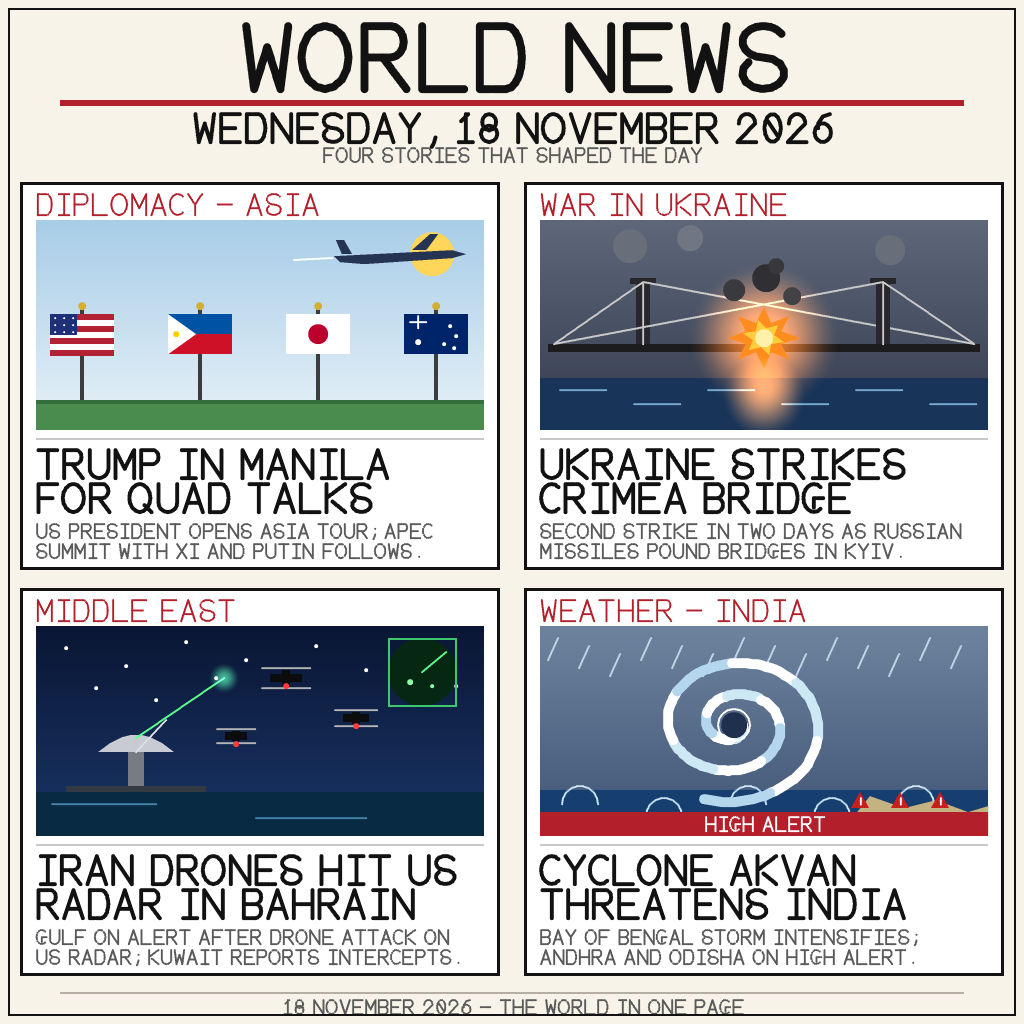
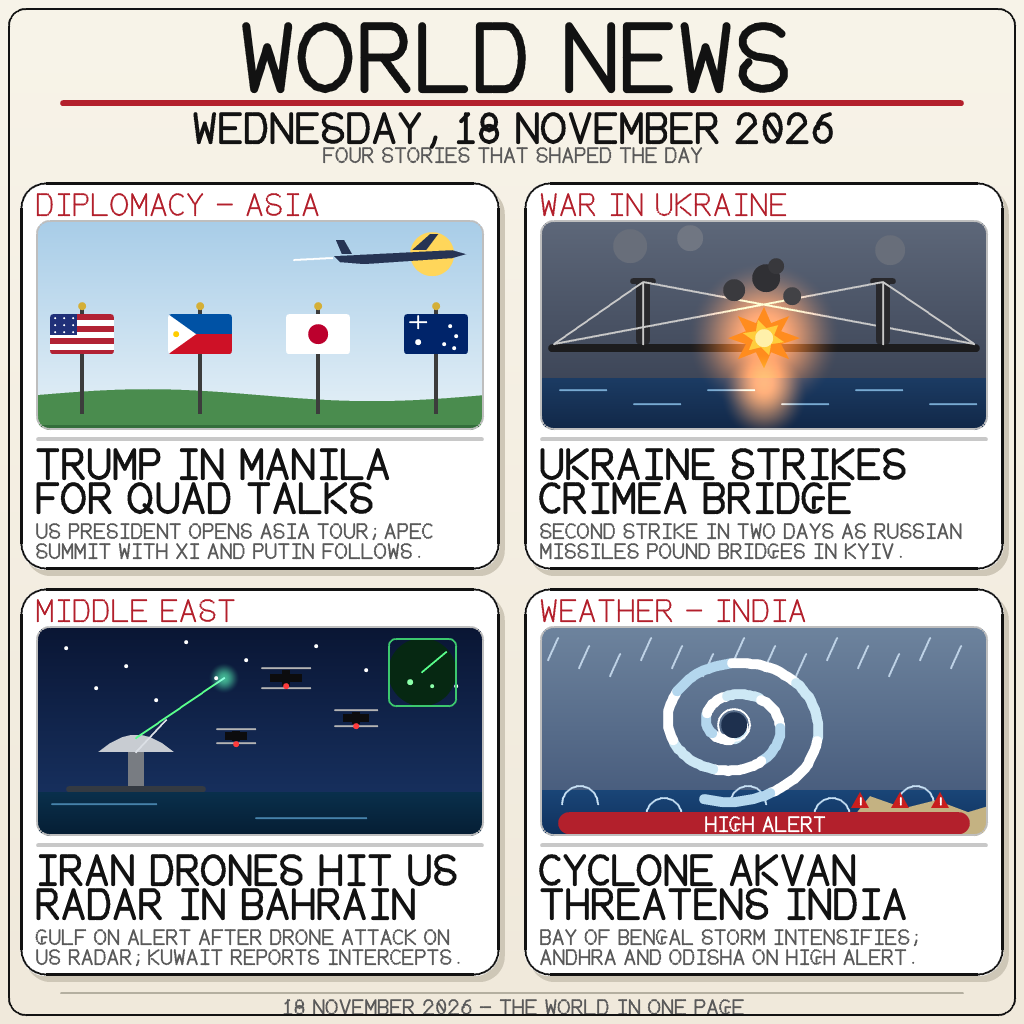
Rounded, soft look: large-radius panels, rounded illustration regions, gradients, soft shadows

diff --git a/main.py b/main.py
@@ -17,7 +17,9 @@ Deterministic: no clock, no network, no random. The same bytes are
 written on every run.
 Rendering is supersampled 3x (3072x3072) and box-downsampled to
 1024x1024, so text and shapes get smooth anti-aliased edges instead of
-the blocky pixel look. The harness is standard-library only, so no
+the blocky pixel look. Panels, frames and illustration regions are
+large-radius rounded rectangles with soft shadows and gradients --
+nothing flat and square. The harness is standard-library only, so no
 Pillow or external fonts are used.
 Run:  MAKEFUN_OUTPUT_DIR=out python3 -P -s main.py
 """
@@ -47,16 +49,77 @@ def _clamp(v):
     return 255 if v > 255 else (0 if v < 0 else v)
 
 
+# Optional rounded-rect clip (supersampled coords): when set, _blit_rect
+# and add_circle only paint inside it. Used for illustration regions and
+# flags so their corners come out rounded instead of square.
+CLIP = None
+
+
+def set_clip(x0, y0, x1, y1, r):
+    global CLIP
+    CLIP = (int(x0 * SS), int(y0 * SS), int(x1 * SS), int(y1 * SS), r * SS)
+
+
+def clear_clip():
+    global CLIP
+    CLIP = None
+
+
+def push_clip(x0, y0, x1, y1, r):
+    """Set a clip and return the previous one (for nested clips)."""
+    prev = CLIP
+    set_clip(x0, y0, x1, y1, r)
+    return prev
+
+
+def pop_clip(prev):
+    global CLIP
+    CLIP = prev
+
+
+def _clip_row(sy):
+    """Allowed supersampled x-interval for row sy under CLIP, or None
+    when no clip is set. Returns an empty interval for rows outside."""
+    if CLIP is None:
+        return None
+    X0, Y0, X1, Y1, R = CLIP
+    if sy < Y0 or sy >= Y1:
+        return (0, 0)
+    cx0, cx1 = X0 + R, X1 - R
+    cy0, cy1 = Y0 + R, Y1 - R
+    if sy < cy0:
+        dy = cy0 - sy
+        dx = int((max(R * R - dy * dy, 0)) ** 0.5)
+        return (cx0 - dx, cx1 + dx)
+    if sy > cy1:
+        dy = sy - cy1
+        dx = int((max(R * R - dy * dy, 0)) ** 0.5)
+        return (cx0 - dx, cx1 + dx)
+    return (X0, X1)
+
+
 def _blit_rect(x0, y0, x1, y1, c):
     """Fill a rect in supersampled coordinates (direct pixel writes)."""
     x0 = max(0, int(x0)); y0 = max(0, int(y0))
     x1 = min(SW, int(x1)); y1 = min(SH, int(y1))
     if x1 <= x0 or y1 <= y0:
         return
-    row = bytes(c) * (x1 - x0)
-    for y in range(y0, y1):
-        base = (y * SW + x0) * 3
-        pix[base:base + len(row)] = row
+    if CLIP is None:
+        row = bytes(c) * (x1 - x0)
+        for y in range(y0, y1):
+            base = (y * SW + x0) * 3
+            pix[base:base + len(row)] = row
+    else:
+        for y in range(y0, y1):
+            cr = _clip_row(y)
+            if cr is None:
+                continue
+            lo, hi = max(cr[0], x0), min(cr[1], x1)
+            if hi <= lo:
+                continue
+            row = bytes(c) * (hi - lo)
+            base = (y * SW + lo) * 3
+            pix[base:base + len(row)] = row
 
 
 def set_px(x, y, c):
@@ -104,6 +167,10 @@ def add_circle(cx, cy, r, c, strength=1.0):
         dx = int((r2 - dy * dy) ** 0.5)
         for x in range(cx - dx, cx + dx + 1):
             if 0 <= x < SW:
+                if CLIP is not None:
+                    cr = _clip_row(yy)
+                    if cr is None or not (cr[0] <= x < cr[1]):
+                        continue
                 d2 = (x - cx) ** 2 + dy * dy
                 f = (1.0 - d2 / r2) ** 2 * strength
                 i = (yy * SW + x) * 3
@@ -158,6 +225,43 @@ def frame(x0, y0, x1, y1, c, w=3):
     fill_rect(x0, y1 - w, x1, y1, c)
     fill_rect(x0, y0, x0 + w, y1, c)
     fill_rect(x1 - w, y0, x1, y1, c)
+
+
+def round_rect(x0, y0, x1, y1, r, c):
+    """Filled rounded rect in logical coords (large radius = soft look)."""
+    r = max(0.0, min(float(r), (x1 - x0) / 2.0, (y1 - y0) / 2.0))
+    X0, Y0, X1, Y1 = int(x0 * SS), int(y0 * SS), int(x1 * SS), int(y1 * SS)
+    R = r * SS
+    cx0, cx1 = X0 + R, X1 - R
+    cy0, cy1 = Y0 + R, Y1 - R
+    for sy in range(max(0, Y0), min(SH, Y1)):
+        if sy < cy0:
+            dy = cy0 - sy
+            dx = int((max(R * R - dy * dy, 0)) ** 0.5)
+            lo, hi = cx0 - dx, cx1 + dx
+        elif sy > cy1:
+            dy = sy - cy1
+            dx = int((max(R * R - dy * dy, 0)) ** 0.5)
+            lo, hi = cx0 - dx, cx1 + dx
+        else:
+            lo, hi = X0, X1
+        _blit_rect(lo, sy, hi, sy + 1, c)
+
+
+def round_frame(x0, y0, x1, y1, r, c, w=3):
+    """Rounded outline: straight edges + quarter-circle corners.
+    Arc radius is r - w/2 so the stroke's outer edge lands exactly on
+    the rect boundary and joins the straight edges."""
+    r = max(0.0, min(float(r), (x1 - x0) / 2.0, (y1 - y0) / 2.0))
+    fill_rect(x0 + r, y0, x1 - r, y0 + w, c)
+    fill_rect(x0 + r, y1 - w, x1 - r, y1, c)
+    fill_rect(x0, y0 + r, x0 + w, y1 - r, c)
+    fill_rect(x1 - w, y0 + r, x1, y1 - r, c)
+    ar = r - w / 2.0
+    arc(x0 + r, y0 + r, ar, math.pi, 1.5 * math.pi, c, w)
+    arc(x1 - r, y0 + r, ar, 1.5 * math.pi, 2 * math.pi, c, w)
+    arc(x1 - r, y1 - r, ar, 0, 0.5 * math.pi, c, w)
+    arc(x0 + r, y1 - r, ar, 0.5 * math.pi, math.pi, c, w)
 
 
 # ---------------------------------------------------------------- stroke font
@@ -318,9 +422,17 @@ def draw_summit(x, y, w, h):
     """Four flags + plane: Trump lands in Manila for Quad talks."""
     vgrad(x, y, x + w, y + h, (168, 205, 232), (232, 242, 248))
     fill_circle(x + w - 52, y + 34, 22, (255, 214, 90))
-    # ground
-    fill_rect(x, y + h - 26, x + w, y + h, (74, 140, 78))
-    fill_rect(x, y + h - 30, x + w, y + h - 26, (52, 110, 60))
+    # rolling green hill (soft curved crest, no flat slab)
+    base = y + h
+    crest = y + h - 30
+    top = []
+    for i in range(25):
+        tx = x + i * w / 24
+        ty = crest - 6 * math.sin(i / 24 * math.pi * 2.0)
+        top.append((tx, ty))
+    poly(top + [(x + w, base), (x, base)], (52, 110, 60))
+    top2 = [(tx, ty - 5) for (tx, ty) in top]
+    poly(top2 + [(x + w, base - 5), (x, base - 5)], (74, 140, 78))
     # plane (top right, side view silhouette)
     px, py = x + w - 150, y + 26
     poly([(px, py + 10), (px + 118, py + 4), (px + 132, py + 8),
@@ -337,10 +449,12 @@ def draw_summit(x, y, w, h):
     fx = x + 14
     fy = y + h - 30 - fh - 46
     for kind in ('us', 'ph', 'jp', 'au'):
-        # pole
-        fill_rect(fx + fw // 2 - 2, fy - 8, fx + fw // 2 + 2, y + h - 30,
+        # pole (planted deep so it never floats above the rolling hill)
+        fill_rect(fx + fw // 2 - 2, fy - 8, fx + fw // 2 + 2, y + h - 16,
                   (60, 60, 60))
         fill_circle(fx + fw // 2, fy - 8, 4, (212, 175, 55))
+        # rounded flag corners (nested clip; restored afterwards)
+        prev = push_clip(fx, fy, fx + fw, fy + fh, 3)
         if kind == 'us':
             for s in range(7):
                 fill_rect(fx, fy + s * 6, fx + fw, fy + (s + 1) * 6,
@@ -366,6 +480,7 @@ def draw_summit(x, y, w, h):
             fill_circle(fx + 50, fy + 34, 2, WHITE)
             line(fx + 6, fy + 8, fx + 22, fy + 8, WHITE, 2)
             line(fx + 14, fy + 2, fx + 14, fy + 14, WHITE, 2)
+        pop_clip(prev)
         fx += fw + gap
 
 
@@ -376,18 +491,18 @@ def draw_bridge(x, y, w, h):
     fill_circle(x + 90, y + 26, 17, (104, 110, 122))
     fill_circle(x + 150, y + 18, 13, (112, 118, 130))
     fill_circle(x + 350, y + 30, 15, (104, 110, 122))
-    # water
+    # water (deep gradient, not a flat slab)
     wy = y + h - 52
-    fill_rect(x, wy, x + w, y + h, (24, 52, 88))
+    vgrad(x, wy, x + w, y + h, (28, 60, 100), (18, 40, 72))
     for i in range(6):
         line(x + 20 + i * 74, wy + 12 + (i % 2) * 14,
              x + 66 + i * 74, wy + 12 + (i % 2) * 14, (120, 170, 210), 2)
     # bridge deck + towers
     dy = wy - 34
-    fill_rect(x + 8, dy, x + w - 8, dy + 8, (28, 28, 30))
+    round_rect(x + 8, dy, x + w - 8, dy + 8, 4, (28, 28, 30))
     for tx in (x + 96, x + w - 112):
-        fill_rect(tx, dy - 66, tx + 14, dy, (40, 40, 44))
-        fill_rect(tx - 6, dy - 66, tx + 20, dy - 60, (40, 40, 44))
+        round_rect(tx, dy - 66, tx + 14, dy, 3, (40, 40, 44))
+        round_rect(tx - 6, dy - 66, tx + 20, dy - 60, 3, (40, 40, 44))
         line(tx + 7, dy - 62, x + 14, dy, (200, 200, 200), 2)
         line(tx + 7, dy - 62, x + w - 14, dy, (200, 200, 200), 2)
         line(tx + 7, dy - 62, tx + 7, dy, (200, 200, 200), 2)
@@ -426,13 +541,13 @@ def draw_drones(x, y, w, h):
                    (330, 44), (390, 26), (60, 62), (250, 58), (180, 52),
                    (420, 60), (120, 74)):
         fill_circle(x + sx, y + sy, 2, WHITE)
-    # sea
+    # sea (gradient, not a flat slab)
     sy = y + h - 44
-    fill_rect(x, sy, x + w, y + h, (8, 42, 66))
+    vgrad(x, sy, x + w, y + h, (10, 48, 76), (6, 30, 52))
     line(x + 16, sy + 12, x + 120, sy + 12, (70, 130, 170), 2)
     line(x + 220, sy + 26, x + 330, sy + 26, (70, 130, 170), 2)
-    # land strip + radar pedestal
-    fill_rect(x + 30, sy - 6, x + 170, sy, (52, 58, 66))
+    # land strip + radar pedestal (rounded top edge)
+    round_rect(x + 30, sy - 6, x + 170, sy, 4, (52, 58, 66))
     bx, by = x + 100, sy - 6
     fill_rect(bx - 8, by - 34, bx + 8, by, (120, 124, 130))
     # radar dish (parabola bowl)
@@ -458,7 +573,8 @@ def draw_drones(x, y, w, h):
     # radar screen (top-right)
     rx, ry, rr = x + w - 62, y + 46, 34
     fill_circle(rx, ry, rr, (6, 40, 18))
-    frame(rx - rr, ry - rr, rx + rr + 1, ry + rr + 1, (60, 200, 110), 2)
+    round_frame(rx - rr, ry - rr, rx + rr + 1, ry + rr + 1, 8,
+                (60, 200, 110), 2)
     line(rx, ry, rx + 24, ry - 20, (90, 255, 140), 2)
     fill_circle(rx - 12, ry + 10, 3, (140, 255, 170))
     fill_circle(rx + 10, ry + 14, 2, (140, 255, 170))
@@ -472,9 +588,9 @@ def draw_cyclone(x, y, w, h):
         rx = x + 18 + i * 31
         line(rx, y + 12 + (i % 3) * 8, rx - 10, y + 34 + (i % 3) * 8,
              (190, 210, 230), 2)
-    # sea
+    # sea (gradient, not a flat slab)
     sy = y + h - 46
-    fill_rect(x, sy, x + w, y + h, (22, 62, 110))
+    vgrad(x, sy, x + w, y + h, (26, 70, 120), (16, 48, 92))
     for i in range(5):
         arc(x + 40 + i * 84, sy + 14 + (i % 2) * 12, 18, math.pi, 2 * math.pi,
             (200, 225, 245), 2)
@@ -503,8 +619,8 @@ def draw_cyclone(x, y, w, h):
         poly([(tx, sy + 2), (tx + 9, sy + 18), (tx - 9, sy + 18)],
              (200, 30, 30))
         draw_text(tx - 2, sy + 8, 1, WHITE, '!')
-    # HIGH ALERT strip
-    fill_rect(x, y + h - 24, x + w, y + h, (179, 32, 44))
+    # HIGH ALERT pill (rounded, inset -- no flat full-width strip)
+    round_rect(x + 18, y + h - 24, x + w - 18, y + h - 2, 11, (179, 32, 44))
     center_text(x + w // 2, y + h - 19, 2, WHITE, 'HIGH ALERT')
 
 
@@ -528,11 +644,20 @@ STORIES = [
 def draw_panel(px, py, story):
     kicker, h1, h2, s1, s2, draw = story
     pw, ph = 480, 388
-    fill_rect(px, py, px + pw, py + ph, WHITE)
-    frame(px, py, px + pw, py + ph, INK, 3)
+    # soft drop shadow, then rounded white body + rounded border
+    round_rect(px + 5, py + 6, px + pw + 5, py + ph + 6, 26,
+               (206, 199, 183))
+    round_rect(px, py, px + pw, py + ph, 26, WHITE)
+    round_frame(px, py, px + pw, py + ph, 26, INK, 3)
     draw_text(px + 16, py + 12, 3, RED, kicker)
-    draw(px + 16, py + 38, 448, 210, )
-    fill_rect(px + 16, py + 256, px + pw - 16, py + 258, (200, 200, 200))
+    # illustration in a rounded-corner region (r=14) with a soft outline
+    ix, iy, iw, ih = px + 16, py + 38, 448, 210
+    set_clip(ix, iy, ix + iw, iy + ih, 14)
+    draw(ix, iy, iw, ih)
+    clear_clip()
+    round_frame(ix, iy, ix + iw, iy + ih, 14, (190, 190, 190), 2)
+    round_rect(px + 16, py + 255, px + pw - 16, py + 259, 2,
+               (200, 200, 200))
     draw_text(px + 16, py + 268, 4, INK, h1)
     draw_text(px + 16, py + 302, 4, INK, h2)
     draw_text(px + 16, py + 342, 2, GRAY, s1)
@@ -540,10 +665,11 @@ def draw_panel(px, py, story):
 
 
 def build():
-    fill_rect(0, 0, W, H, PAPER)
+    # page: gentle vertical gradient (soft depth, not a flat plate)
+    vgrad(0, 0, W, H, (248, 244, 233), (240, 233, 219))
     # masthead
     center_text(W // 2, 26, 9, INK, "WORLD NEWS")
-    fill_rect(60, 100, W - 60, 106, RED)
+    round_rect(60, 100, W - 60, 106, 3, RED)
     center_text(W // 2, 114, 4, INK, "WEDNESDAY, 18 NOVEMBER 2026")
     center_text(W // 2, 148, 2, GRAY, "FOUR STORIES THAT SHAPED THE DAY")
     # panels
@@ -551,11 +677,11 @@ def build():
     for (px, py), story in zip(positions, STORIES):
         draw_panel(px, py, story)
     # footer
-    fill_rect(60, 992, W - 60, 994, (180, 175, 160))
+    round_rect(60, 992, W - 60, 994, 1, (180, 175, 160))
     center_text(W // 2, 1000, 2, GRAY,
                 "18 NOVEMBER 2026 - THE WORLD IN ONE PAGE")
-    # thin outer frame
-    frame(8, 8, W - 8, H - 8, INK, 2)
+    # rounded outer frame
+    round_frame(8, 8, W - 8, H - 8, 18, INK, 2)
 
 
 # ---------------------------------------------------------------- PNG encode

diff --git a/README.md b/README.md
@@ -2,7 +2,7 @@
 
 [![make.fun · news-image-20261118](https://make.fun/badge/news-image-20261118.svg)](https://make.fun/bounty/news-image-20261118)
 
-A one-page newspaper summing up the world's news of Wednesday 18 November 2026 — drawn entirely in code, Python standard library only. Text is a smooth single-stroke vector font and the whole page is rendered at 3x and downsampled, so edges are anti-aliased instead of blocky.
+A one-page newspaper summing up the world's news of Wednesday 18 November 2026 — drawn entirely in code, Python standard library only. Text is a smooth single-stroke vector font and the whole page is rendered at 3x and downsampled, so edges are anti-aliased instead of blocky. Panels, frames and illustration regions are large-radius rounded rectangles with soft drop shadows and gradients — nothing flat and square.
 
 ## The four stories
 
